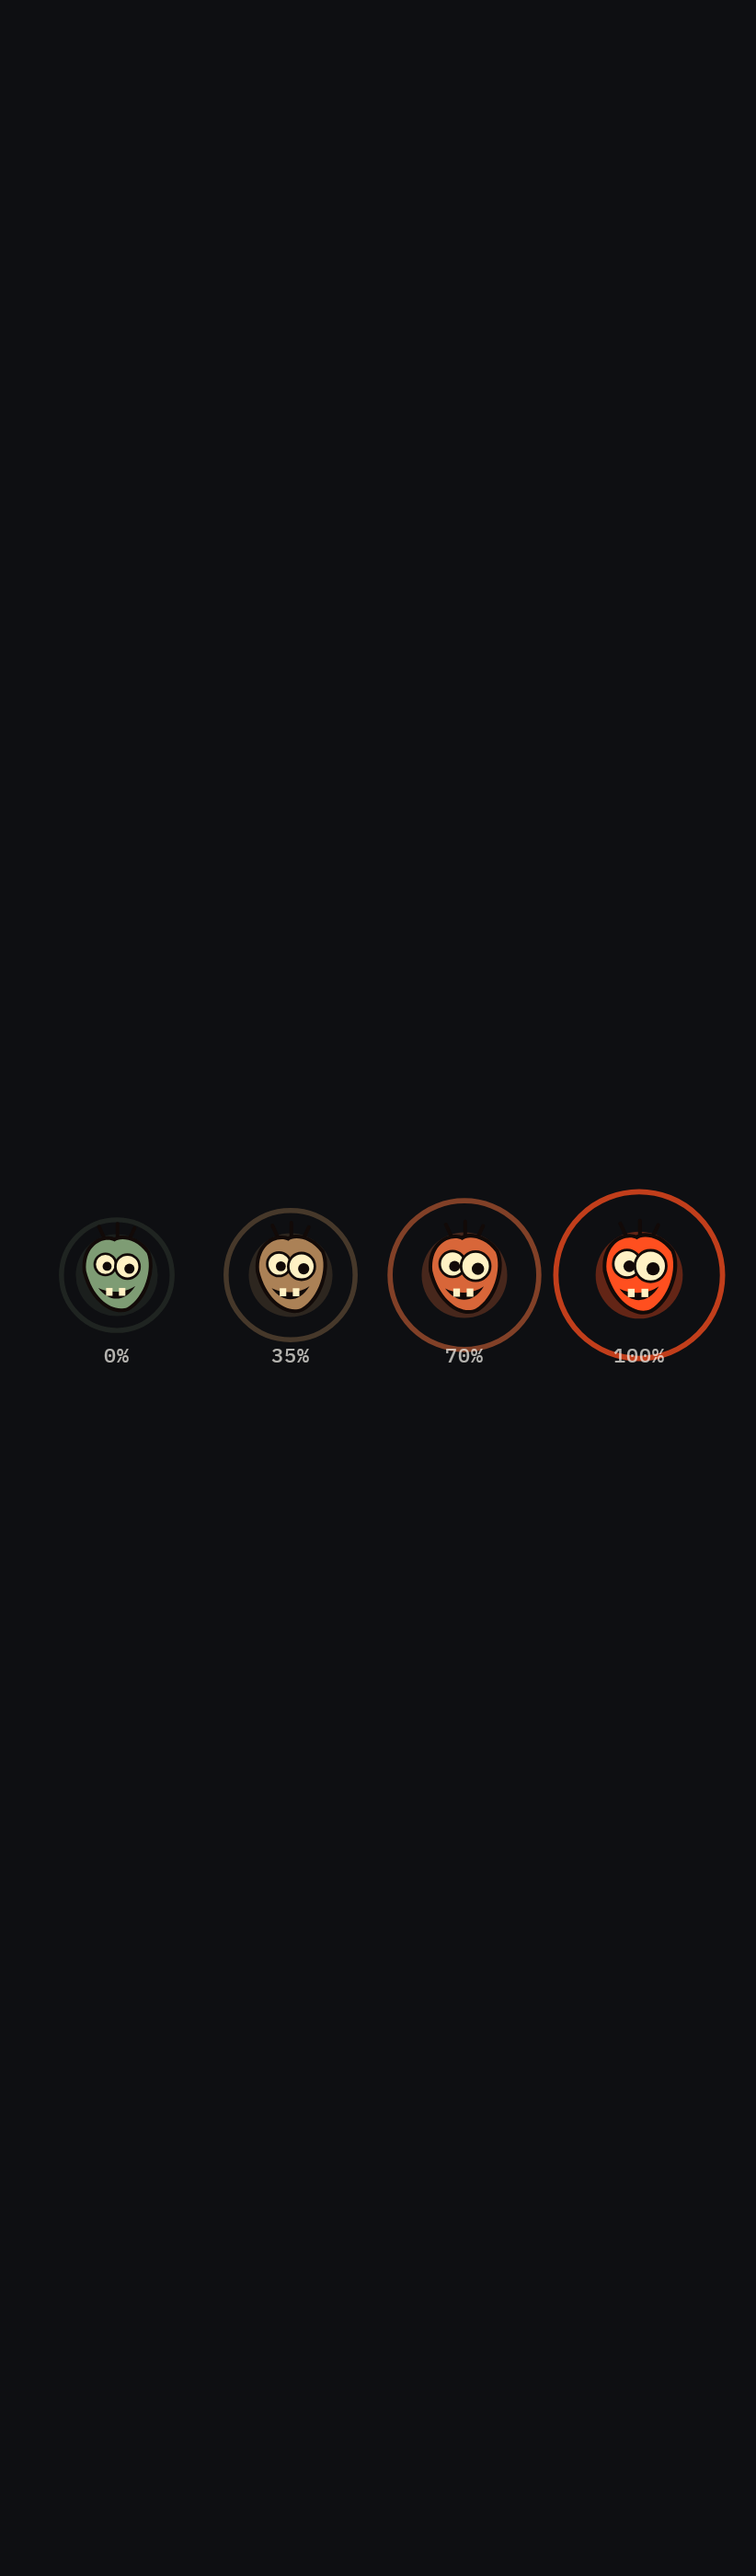
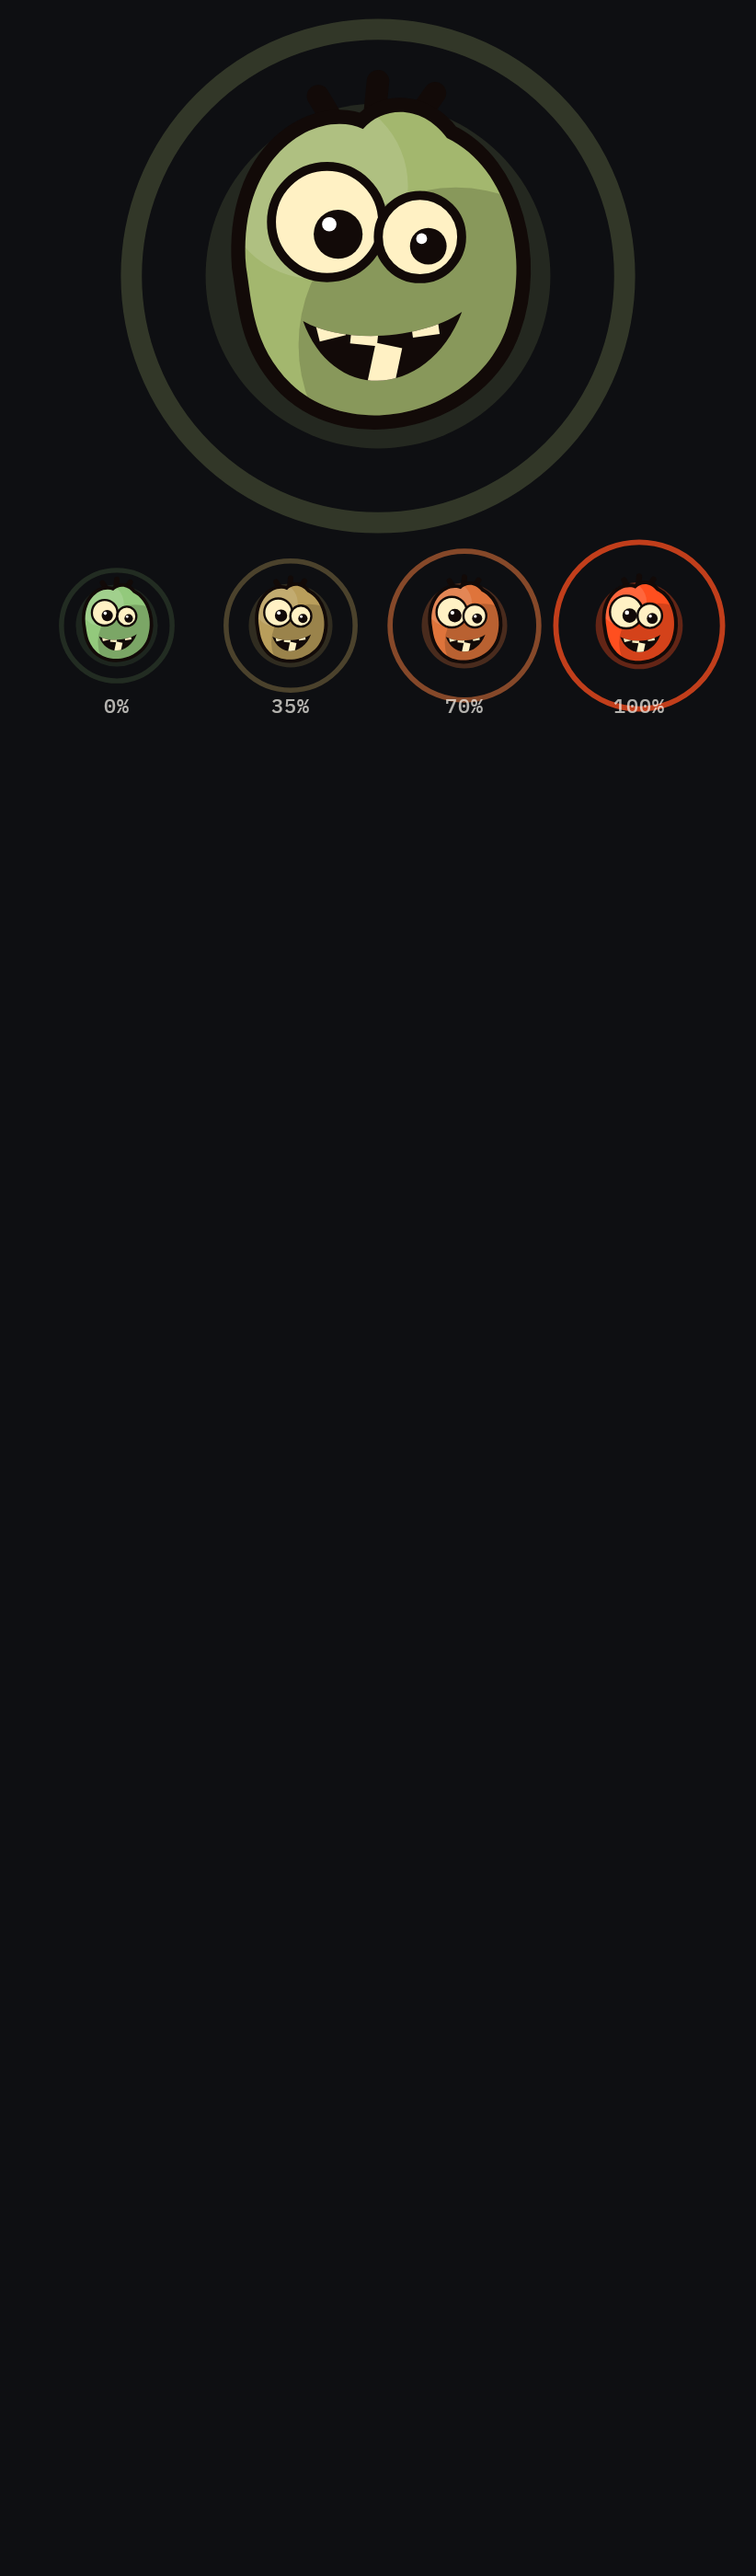
feat(android): the pursuer is a proper cartoon zombie head
The first pass was flat: a green shape with two matched circles and a row of
even teeth, which read as a sticker rather than a face. Four changes, and they
are all the same change — a head has a surface and a character, and a shape does
not.

Lopsided, deliberately. One eye larger than the other and set lower, a dented
crown, a jaw hanging off-centre. Matched features read as designed; mismatched
ones read as something wrong with it, which is the entire job.

Shaded rather than filled. One dark wash along the lower right and one light
bloom on the upper left, both clipped to the skull. It is the whole difference
between a silhouette and something with a surface, and it costs two circles.

Four teeth at four angles with a gap where a fifth should be, inside a hanging
jaw rather than a grin. A straight row of even teeth is a comb.

Catchlights in the pupils, which is what stops an eye reading as a printed dot,
and short thick tufts of hair instead of the long thin strands that read as
antennae. The green is a clearer sickly green now; the old one went khaki once
the shading wash sat on top of it.

Still drawn, so it survives any zoom, costs nothing in the APK, and still runs
green to hot with its eyes widening as it closes. The screenshot sheet renders
one large enough to actually judge, beside the four map-marker sizes it has to
survive at.

diff --git a/android/app/src/main/java/com/clashfit/ui/components/ChaseGlyphs.kt b/android/app/src/main/java/com/clashfit/ui/components/ChaseGlyphs.kt
@@ -75,115 +75,167 @@ object ChaseGlyphs {
             color = body.toArgb()
         }
 
-        // The skull. Wider at the temples than the jaw, with a dented crown, so it reads as
-        // something that used to be a person rather than as a ball.
+        // ── the skull ────────────────────────────────────────────────────────────────────
+        //
+        // Deliberately lopsided. A symmetrical head reads as a mask; this one leans, the crown is
+        // dented on one side, and the jaw hangs off-centre, which is what makes it read as
+        // something that used to be a person rather than as a green ball with a face on it.
         val skull = Path().apply {
-            moveTo(cx - s * 0.86f, cy - s * 0.12f)
+            moveTo(cx - s * 0.88f, cy - s * 0.06f)
             cubicTo(
-                cx - s * 0.92f, cy - s * 0.86f,
-                cx - s * 0.34f, cy - s * 1.10f,
-                cx - s * 0.06f, cy - s * 0.94f,
+                cx - s * 0.94f, cy - s * 0.82f,
+                cx - s * 0.40f, cy - s * 1.12f,
+                cx - s * 0.10f, cy - s * 0.98f,
             )
-            // The dent, which is what stops the crown reading as a smooth dome.
+            // The dent in the crown.
             cubicTo(
-                cx + s * 0.06f, cy - s * 1.06f,
-                cx + s * 0.52f, cy - s * 1.06f,
-                cx + s * 0.84f, cy - s * 0.62f,
+                cx + s * 0.04f, cy - s * 1.14f,
+                cx + s * 0.30f, cy - s * 1.14f,
+                cx + s * 0.46f, cy - s * 0.92f,
             )
             cubicTo(
-                cx + s * 1.02f, cy - s * 0.18f,
-                cx + s * 0.78f, cy + s * 0.62f,
-                cx + s * 0.30f, cy + s * 0.90f,
+                cx + s * 0.88f, cy - s * 0.72f,
+                cx + s * 1.02f, cy - s * 0.10f,
+                cx + s * 0.86f, cy + s * 0.34f,
             )
-            // The jaw, hanging slightly to one side.
+            // The jaw, hanging low and to the left.
             cubicTo(
-                cx - s * 0.06f, cy + s * 1.06f,
-                cx - s * 0.66f, cy + s * 0.72f,
-                cx - s * 0.86f, cy - s * 0.12f,
+                cx + s * 0.66f, cy + s * 0.92f,
+                cx - s * 0.16f, cy + s * 1.12f,
+                cx - s * 0.58f, cy + s * 0.72f,
+            )
+            cubicTo(
+                cx - s * 0.84f, cy + s * 0.46f,
+                cx - s * 0.84f, cy + s * 0.18f,
+                cx - s * 0.88f, cy - s * 0.06f,
             )
             close()
         }
 
-        // Three hairs. Not decoration: they break the outline at the top, which is what keeps the
-        // marker from reading as a plain circle in peripheral vision.
+        // Hair: three strands, uneven, leaning the same way the skull does.
         val hair = paint().apply {
             style = Paint.Style.STROKE
-            strokeWidth = max(1.5f, s * 0.10f)
+            strokeWidth = max(2f, s * 0.15f)
             strokeCap = Paint.Cap.ROUND
             color = OUTLINE.toArgb()
         }
-        listOf(-0.34f to -1.02f, 0.02f to -1.10f, 0.34f to -0.98f).forEachIndexed { idx, (hx, hy) ->
-            val lean = (idx - 1) * 0.16f
-            canvas.drawLine(
-                cx + s * hx, cy + s * hy,
-                cx + s * (hx + lean), cy + s * (hy - 0.34f),
-                hair,
-            )
+        listOf(
+            Triple(-0.28f, -1.00f, -0.12f),
+            Triple(-0.02f, -1.10f, 0.02f),
+            Triple(0.24f, -1.02f, 0.14f),
+        ).forEach { (hx, hy, lean) ->
+            canvas.drawLine(cx + s * hx, cy + s * hy, cx + s * (hx + lean), cy + s * (hy - 0.20f), hair)
         }
 
         canvas.drawPath(
             skull,
             paint().apply {
                 style = Paint.Style.STROKE
-                strokeWidth = max(2f, s * 0.20f)
+                strokeWidth = max(2f, s * 0.19f)
                 strokeJoin = Paint.Join.ROUND
                 color = OUTLINE.toArgb()
             },
         )
         canvas.drawPath(skull, fill)
 
-        // The eyes are the whole read. Big, white, and deliberately mismatched — one larger and
-        // sitting lower — because two identical circles read as a machine and two different ones
-        // read as something wrong with it. They widen as it closes.
-        val white = paint().apply { style = Paint.Style.FILL; color = EYE.toArgb() }
-        val pupil = paint().apply { style = Paint.Style.FILL; color = OUTLINE.toArgb() }
-        val open = 1f + 0.22f * near
-        listOf(
-            Triple(-0.32f, -0.30f, 0.30f),
-            Triple(0.30f, -0.24f, 0.34f),
-        ).forEach { (ex, ey, er) ->
-            val x = cx + s * ex
-            val y = cy + s * ey
-            val r2 = s * er * open
-            canvas.drawCircle(x, y, r2, white)
-            canvas.drawCircle(
-                x, y, r2,
-                paint().apply {
-                    style = Paint.Style.STROKE
-                    strokeWidth = max(1f, s * 0.07f)
-                    color = OUTLINE.toArgb()
-                },
-            )
-            // The pupil sits toward the runner, so every one of them is looking at you.
-            canvas.drawCircle(x + r2 * 0.16f, y + r2 * 0.18f, r2 * 0.42f, pupil)
-        }
+        // ── shading ──────────────────────────────────────────────────────────────────────
+        //
+        // Flat fill is what made the first version read as a sticker. One darker wash along the
+        // lower right and one light bloom on the upper left is the whole difference between a
+        // shape and something with a surface; the skull is clipped so neither escapes the head.
+        canvas.save()
+        canvas.clipPath(skull)
+        canvas.drawCircle(
+            cx + s * 0.52f, cy + s * 0.46f, s * 1.05f,
+            paint().apply {
+                style = Paint.Style.FILL
+                color = OUTLINE.toArgb()
+                alpha = 46
+            },
+        )
+        canvas.drawCircle(
+            cx - s * 0.42f, cy - s * 0.60f, s * 0.62f,
+            paint().apply {
+                style = Paint.Style.FILL
+                color = android.graphics.Color.WHITE
+                alpha = 34
+            },
+        )
+        canvas.restore()
 
-        // A wide gap-toothed grin. Drawn as a dark mouth with a few pale teeth left in it, rather
-        // than a row of teeth, so at small sizes it collapses into a dark bar and still reads.
+        // ── the mouth, before the eyes, so a tooth can never sit over an eye ──────────────
+        //
+        // A hanging jaw rather than a grin: the dark cavity is the shape that survives at map
+        // size, and the teeth are what make it a zombie rather than a hole.
         val mouth = Path().apply {
-            moveTo(cx - s * 0.52f, cy + s * 0.36f)
+            moveTo(cx - s * 0.50f, cy + s * 0.30f)
             cubicTo(
-                cx - s * 0.20f, cy + s * 0.78f,
-                cx + s * 0.24f, cy + s * 0.76f,
-                cx + s * 0.52f, cy + s * 0.30f,
+                cx - s * 0.30f, cy + s * 0.86f,
+                cx + s * 0.34f, cy + s * 0.82f,
+                cx + s * 0.56f, cy + s * 0.24f,
             )
             cubicTo(
-                cx + s * 0.24f, cy + s * 0.50f,
-                cx - s * 0.20f, cy + s * 0.52f,
-                cx - s * 0.52f, cy + s * 0.36f,
+                cx + s * 0.30f, cy + s * 0.42f,
+                cx - s * 0.22f, cy + s * 0.46f,
+                cx - s * 0.50f, cy + s * 0.30f,
             )
             close()
         }
         canvas.drawPath(mouth, paint().apply { style = Paint.Style.FILL; color = OUTLINE.toArgb() })
 
+        // Four teeth at four different angles, and a gap where a fifth should be. A straight row
+        // of even teeth is a comb; this is a mouth something has happened to.
         val tooth = paint().apply { style = Paint.Style.FILL; color = EYE.toArgb() }
-        // Two teeth and a gap, which is more of a zombie than a full set would be.
-        listOf(-0.30f, 0.06f).forEach { tx ->
+        canvas.save()
+        canvas.clipPath(mouth)
+        listOf(
+            Triple(-0.34f, 0.26f, -14f),
+            Triple(-0.08f, 0.30f, 6f),
+            Triple(0.30f, 0.24f, -8f),
+            Triple(0.04f, 0.62f, 12f),
+        ).forEach { (tx, ty, deg) ->
+            canvas.save()
+            canvas.rotate(deg, cx + s * tx, cy + s * ty)
             canvas.drawRect(
-                cx + s * tx, cy + s * 0.36f,
-                cx + s * (tx + 0.18f), cy + s * 0.58f,
+                cx + s * (tx - 0.09f), cy + s * (ty - 0.16f),
+                cx + s * (tx + 0.09f), cy + s * (ty + 0.16f),
                 tooth,
             )
+            canvas.restore()
+        }
+        canvas.restore()
+
+        // ── the eyes ─────────────────────────────────────────────────────────────────────
+        //
+        // One big, one small, set at different heights. This is the single thing that carries the
+        // whole read at twenty pixels, and two matching circles are the one arrangement that does
+        // not: matched eyes look designed, mismatched ones look wrong with you.
+        val white = paint().apply { style = Paint.Style.FILL; color = EYE.toArgb() }
+        val pupil = paint().apply { style = Paint.Style.FILL; color = OUTLINE.toArgb() }
+        val spark = paint().apply { style = Paint.Style.FILL; color = android.graphics.Color.WHITE }
+        val open = 1f + 0.20f * near
+        listOf(
+            Triple(-0.34f, -0.36f, 0.36f),
+            Triple(0.28f, -0.26f, 0.27f),
+        ).forEach { (ex, ey, er) ->
+            val x = cx + s * ex
+            val y = cy + s * ey
+            val rr = s * er * open
+            canvas.drawCircle(x, y, rr, white)
+            canvas.drawCircle(
+                x, y, rr,
+                paint().apply {
+                    style = Paint.Style.STROKE
+                    strokeWidth = max(1f, s * 0.06f)
+                    color = OUTLINE.toArgb()
+                },
+            )
+            // The pupil sits toward the runner, so every one of them is looking at you, and the
+            // catchlight is what stops the eye reading as a printed dot.
+            val px = x + rr * 0.20f
+            val py = y + rr * 0.22f
+            canvas.drawCircle(px, py, rr * 0.44f, pupil)
+            canvas.drawCircle(px - rr * 0.16f, py - rr * 0.18f, rr * 0.13f, spark)
         }
     }
 
@@ -212,7 +264,7 @@ object ChaseGlyphs {
     private const val TWO_PI = 6.2831855f
 
     /** Far away: sickly and drained, so distance is felt before the number is read. */
-    private val DISTANT = Color(0xFF7E9C74)
+    private val DISTANT = Color(0xFF93C97C)
     private val EYE = Color(0xFFFFF1C4)
 
     /** Nearly black, for the outline that keeps the silhouette readable over any basemap. */

diff --git a/android/app/src/test/java/com/clashfit/ui/GameArtScreenshotTest.kt b/android/app/src/test/java/com/clashfit/ui/GameArtScreenshotTest.kt
@@ -5,6 +5,7 @@ import androidx.compose.foundation.layout.Arrangement
 import androidx.compose.foundation.layout.Column
 import androidx.compose.foundation.layout.Row
 import androidx.compose.foundation.layout.fillMaxSize
+import androidx.compose.foundation.layout.fillMaxWidth
 import androidx.compose.foundation.layout.padding
 import androidx.compose.material3.MaterialTheme
 import androidx.compose.material3.Text
@@ -182,8 +183,25 @@ class GameArtScreenshotTest {
     fun chaseGlyphs() {
         compose.setContent {
             ClashFitTheme {
-                Row(
+                Column(
                     Modifier.fillMaxSize().background(Ground).padding(20.dp),
+                    verticalArrangement = Arrangement.spacedBy(24.dp),
+                    horizontalAlignment = Alignment.CenterHorizontally,
+                ) {
+                // One large, so the face can actually be judged, and four at map size, which is
+                // the size it has to survive.
+                Canvas(Modifier.size(260.dp)) {
+                    drawIntoCanvas { c ->
+                        ChaseGlyphs.zombie(
+                            c.nativeCanvas,
+                            size.width / 2f, size.height / 2f,
+                            radiusPx = size.minDimension * 0.30f,
+                            closeness = 0.15f, pulse = 0.25f,
+                        )
+                    }
+                }
+                Row(
+                    Modifier.fillMaxWidth(),
                     horizontalArrangement = Arrangement.spacedBy(8.dp),
                     verticalAlignment = Alignment.CenterVertically,
                 ) {
@@ -209,6 +227,7 @@ class GameArtScreenshotTest {
                             )
                         }
                     }
+                }
                 }
             }
         }
